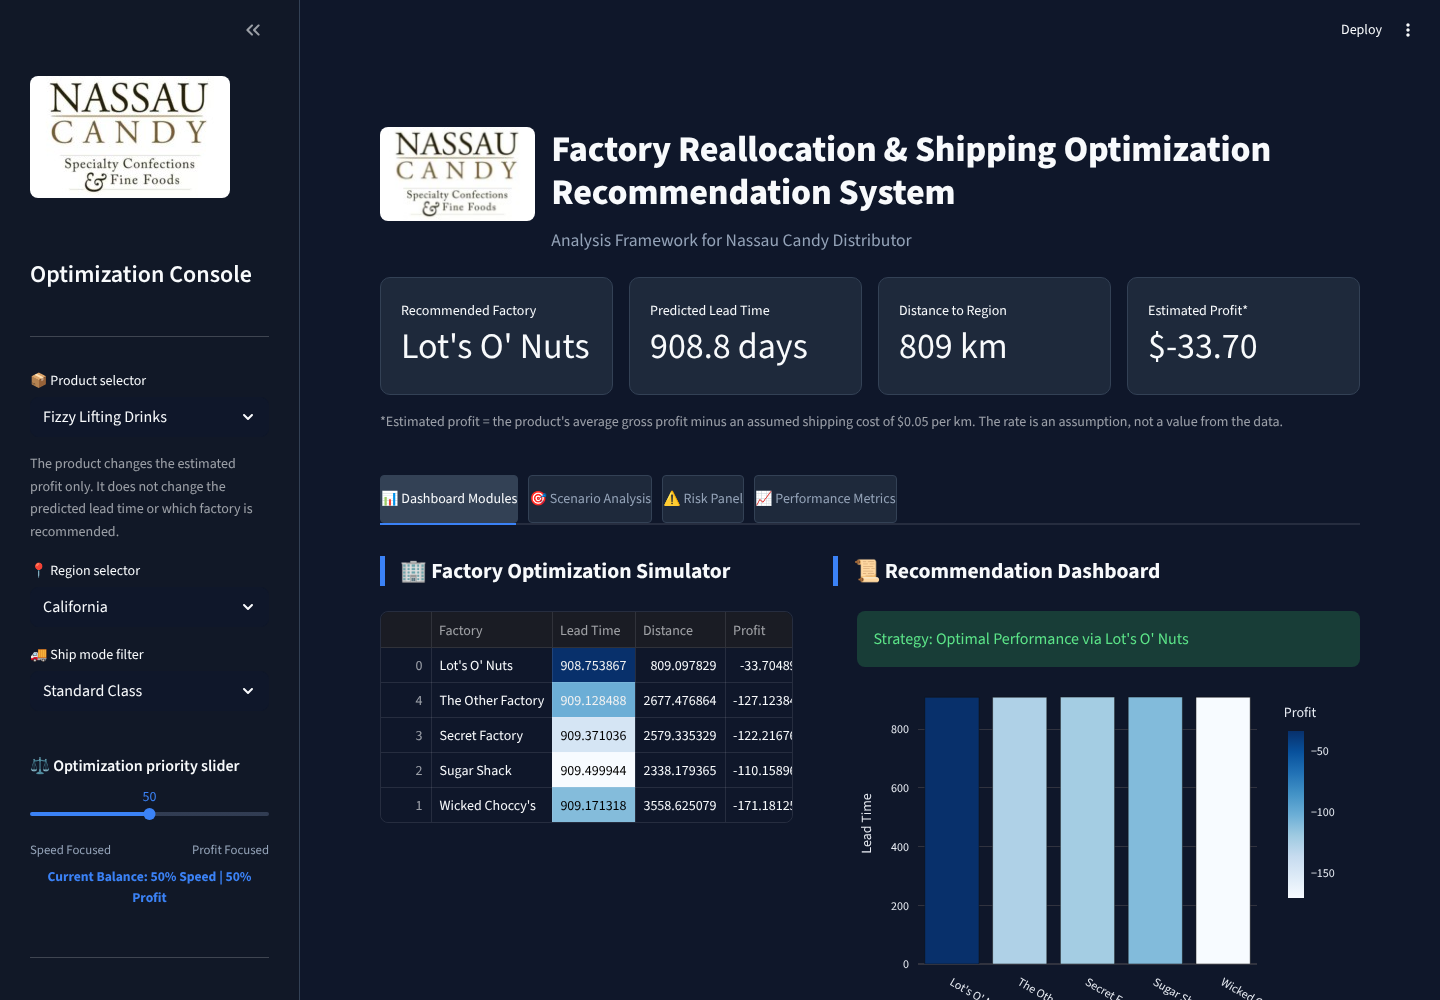
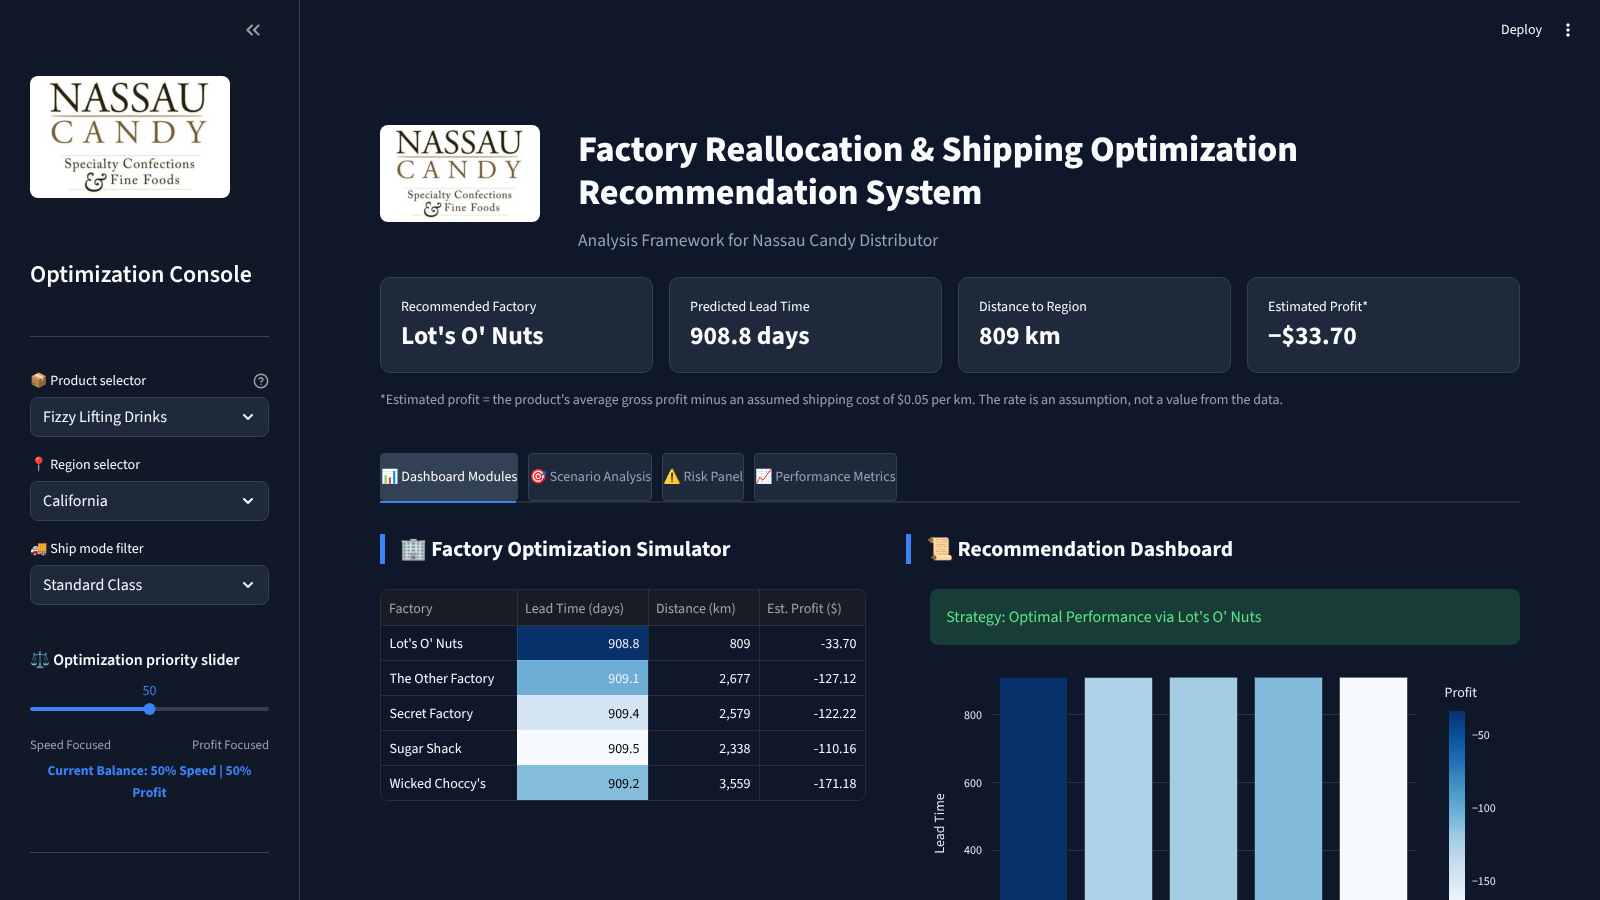
Fix sidebar dropdown visibility, tidy KPI cards and factory table
- Give sidebar dropdowns a visible box; they blended into the sidebar.
- Move the product note into the selector's help icon to declutter the sidebar.
- Smaller, consistent KPI card values; show negative profit as -$33.70.
- Factory table: hide the index, round values, add units to headers.
- Refresh docs/dashboard.png.

Claude-Session: https://claude.ai/code/session_0152E5F73rTM83YRTh64uy6b

diff --git a/app.py b/app.py
@@ -29,8 +29,19 @@ st.markdown("""
     div[data-testid="stMetric"] {
         background: #1e293b;
         border: 1px solid #334155;
-        padding: 20px;
+        padding: 16px 20px;
         border-radius: 10px;
+    }
+    div[data-testid="stMetricLabel"] p {
+        color: #94a3b8;
+        font-size: 0.8rem;
+        text-transform: uppercase;
+        letter-spacing: 0.04em;
+    }
+    div[data-testid="stMetricValue"] {
+        font-size: 1.6rem;
+        font-weight: 700;
+        color: #f8fafc;
     }
 
     /* Uniform Title Styling - Ensures horizontal alignment */
@@ -65,6 +76,13 @@ st.markdown("""
     section[data-testid="stSidebar"] {
         background-color: #111827;
         border-right: 1px solid #334155;
+    }
+
+    /* Sidebar dropdowns: visible box on the dark sidebar */
+    section[data-testid="stSidebar"] div[data-baseweb="select"] > div {
+        background-color: #1e293b;
+        border: 1px solid #334155;
+        border-radius: 8px;
     }
     </style>
     """, unsafe_allow_html=True)
@@ -109,8 +127,9 @@ with st.sidebar:
     st.title("Optimization Console")
     st.markdown("---")
     
-    selected_product = st.selectbox("📦 Product selector", sorted(df['Product Name'].unique()))
-    st.caption("The product changes the estimated profit only. It does not change the predicted lead time or which factory is recommended.")
+    selected_product = st.selectbox(
+        "📦 Product selector", sorted(df['Product Name'].unique()),
+        help="The product changes the estimated profit only. It does not change the predicted lead time or which factory is recommended.")
     selected_region = st.selectbox("📍 Region selector", sorted(list(state_coords.keys())))
     ship_mode = st.selectbox("🚚 Ship mode filter", ["Standard Class", "First Class", "Second Class", "Same Day"])
     
@@ -180,7 +199,8 @@ k1, k2, k3, k4 = st.columns(4)
 k1.metric("Recommended Factory", best_f['Factory'])
 k2.metric("Predicted Lead Time", f"{best_f['Lead Time']:.1f} days")
 k3.metric("Distance to Region", f"{best_f['Distance']:,.0f} km")
-k4.metric("Estimated Profit*", f"${best_f['Profit']:,.2f}")
+profit = best_f['Profit']
+k4.metric("Estimated Profit*", f"{'−' if profit < 0 else ''}${abs(profit):,.2f}")
 st.caption("*Estimated profit = the product's average gross profit minus an assumed shipping cost of $0.05 per km. The rate is an assumption, not a value from the data.")
 
 st.markdown("<br>", unsafe_allow_html=True)
@@ -197,7 +217,12 @@ with t1:
     # ROW 2: Level Content
     c_col1, c_col2 = st.columns([1, 1.2], gap="large")
     with c_col1:
-        st.dataframe(res_df[['Factory', 'Lead Time', 'Distance', 'Profit']].style.background_gradient(cmap='Blues_r', subset=['Lead Time']), width="stretch")
+        table = res_df[['Factory', 'Lead Time', 'Distance', 'Profit']].rename(
+            columns={'Lead Time': 'Lead Time (days)', 'Distance': 'Distance (km)', 'Profit': 'Est. Profit ($)'})
+        st.dataframe(
+            table.style.background_gradient(cmap='Blues_r', subset=['Lead Time (days)'])
+                 .format({'Lead Time (days)': '{:.1f}', 'Distance (km)': '{:,.0f}', 'Est. Profit ($)': '{:,.2f}'}),
+            width="stretch", hide_index=True)
     with c_col2:
         st.success(f"Strategy: Optimal Performance via {best_f['Factory']}")
         fig_reco = px.bar(res_df, x='Factory', y='Lead Time', color='Profit', template='plotly_dark', color_continuous_scale='Blues')
